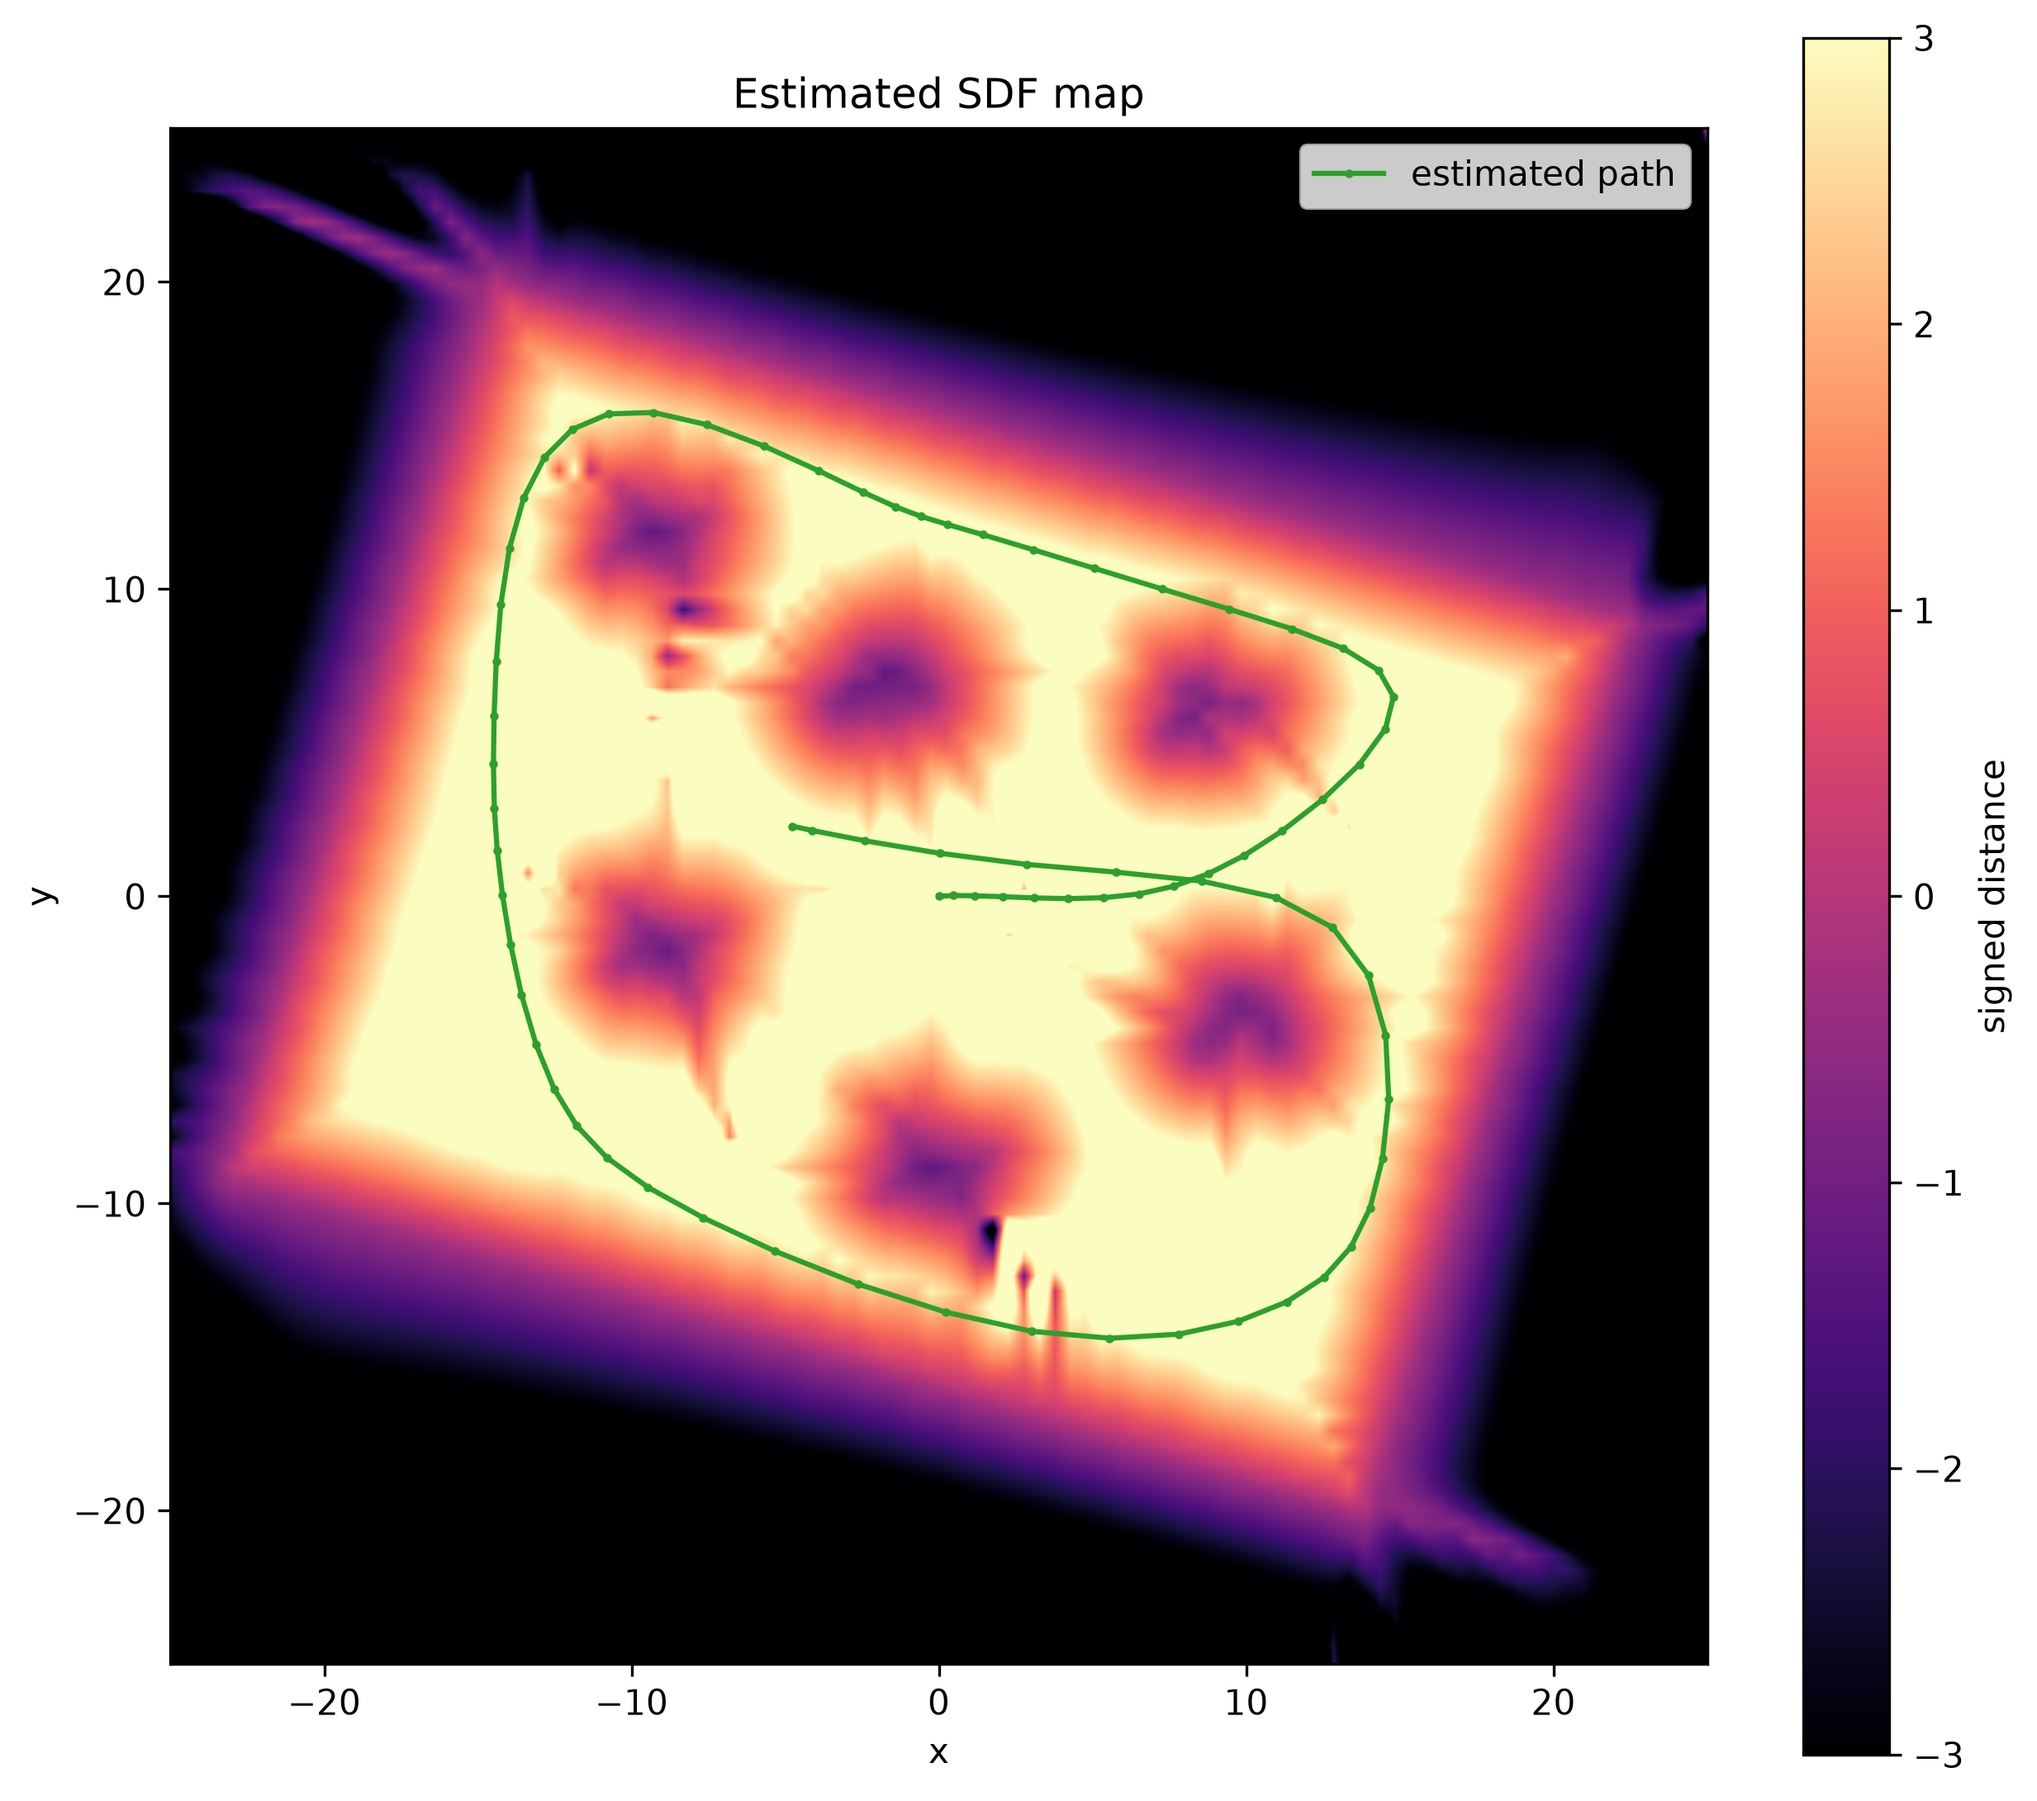
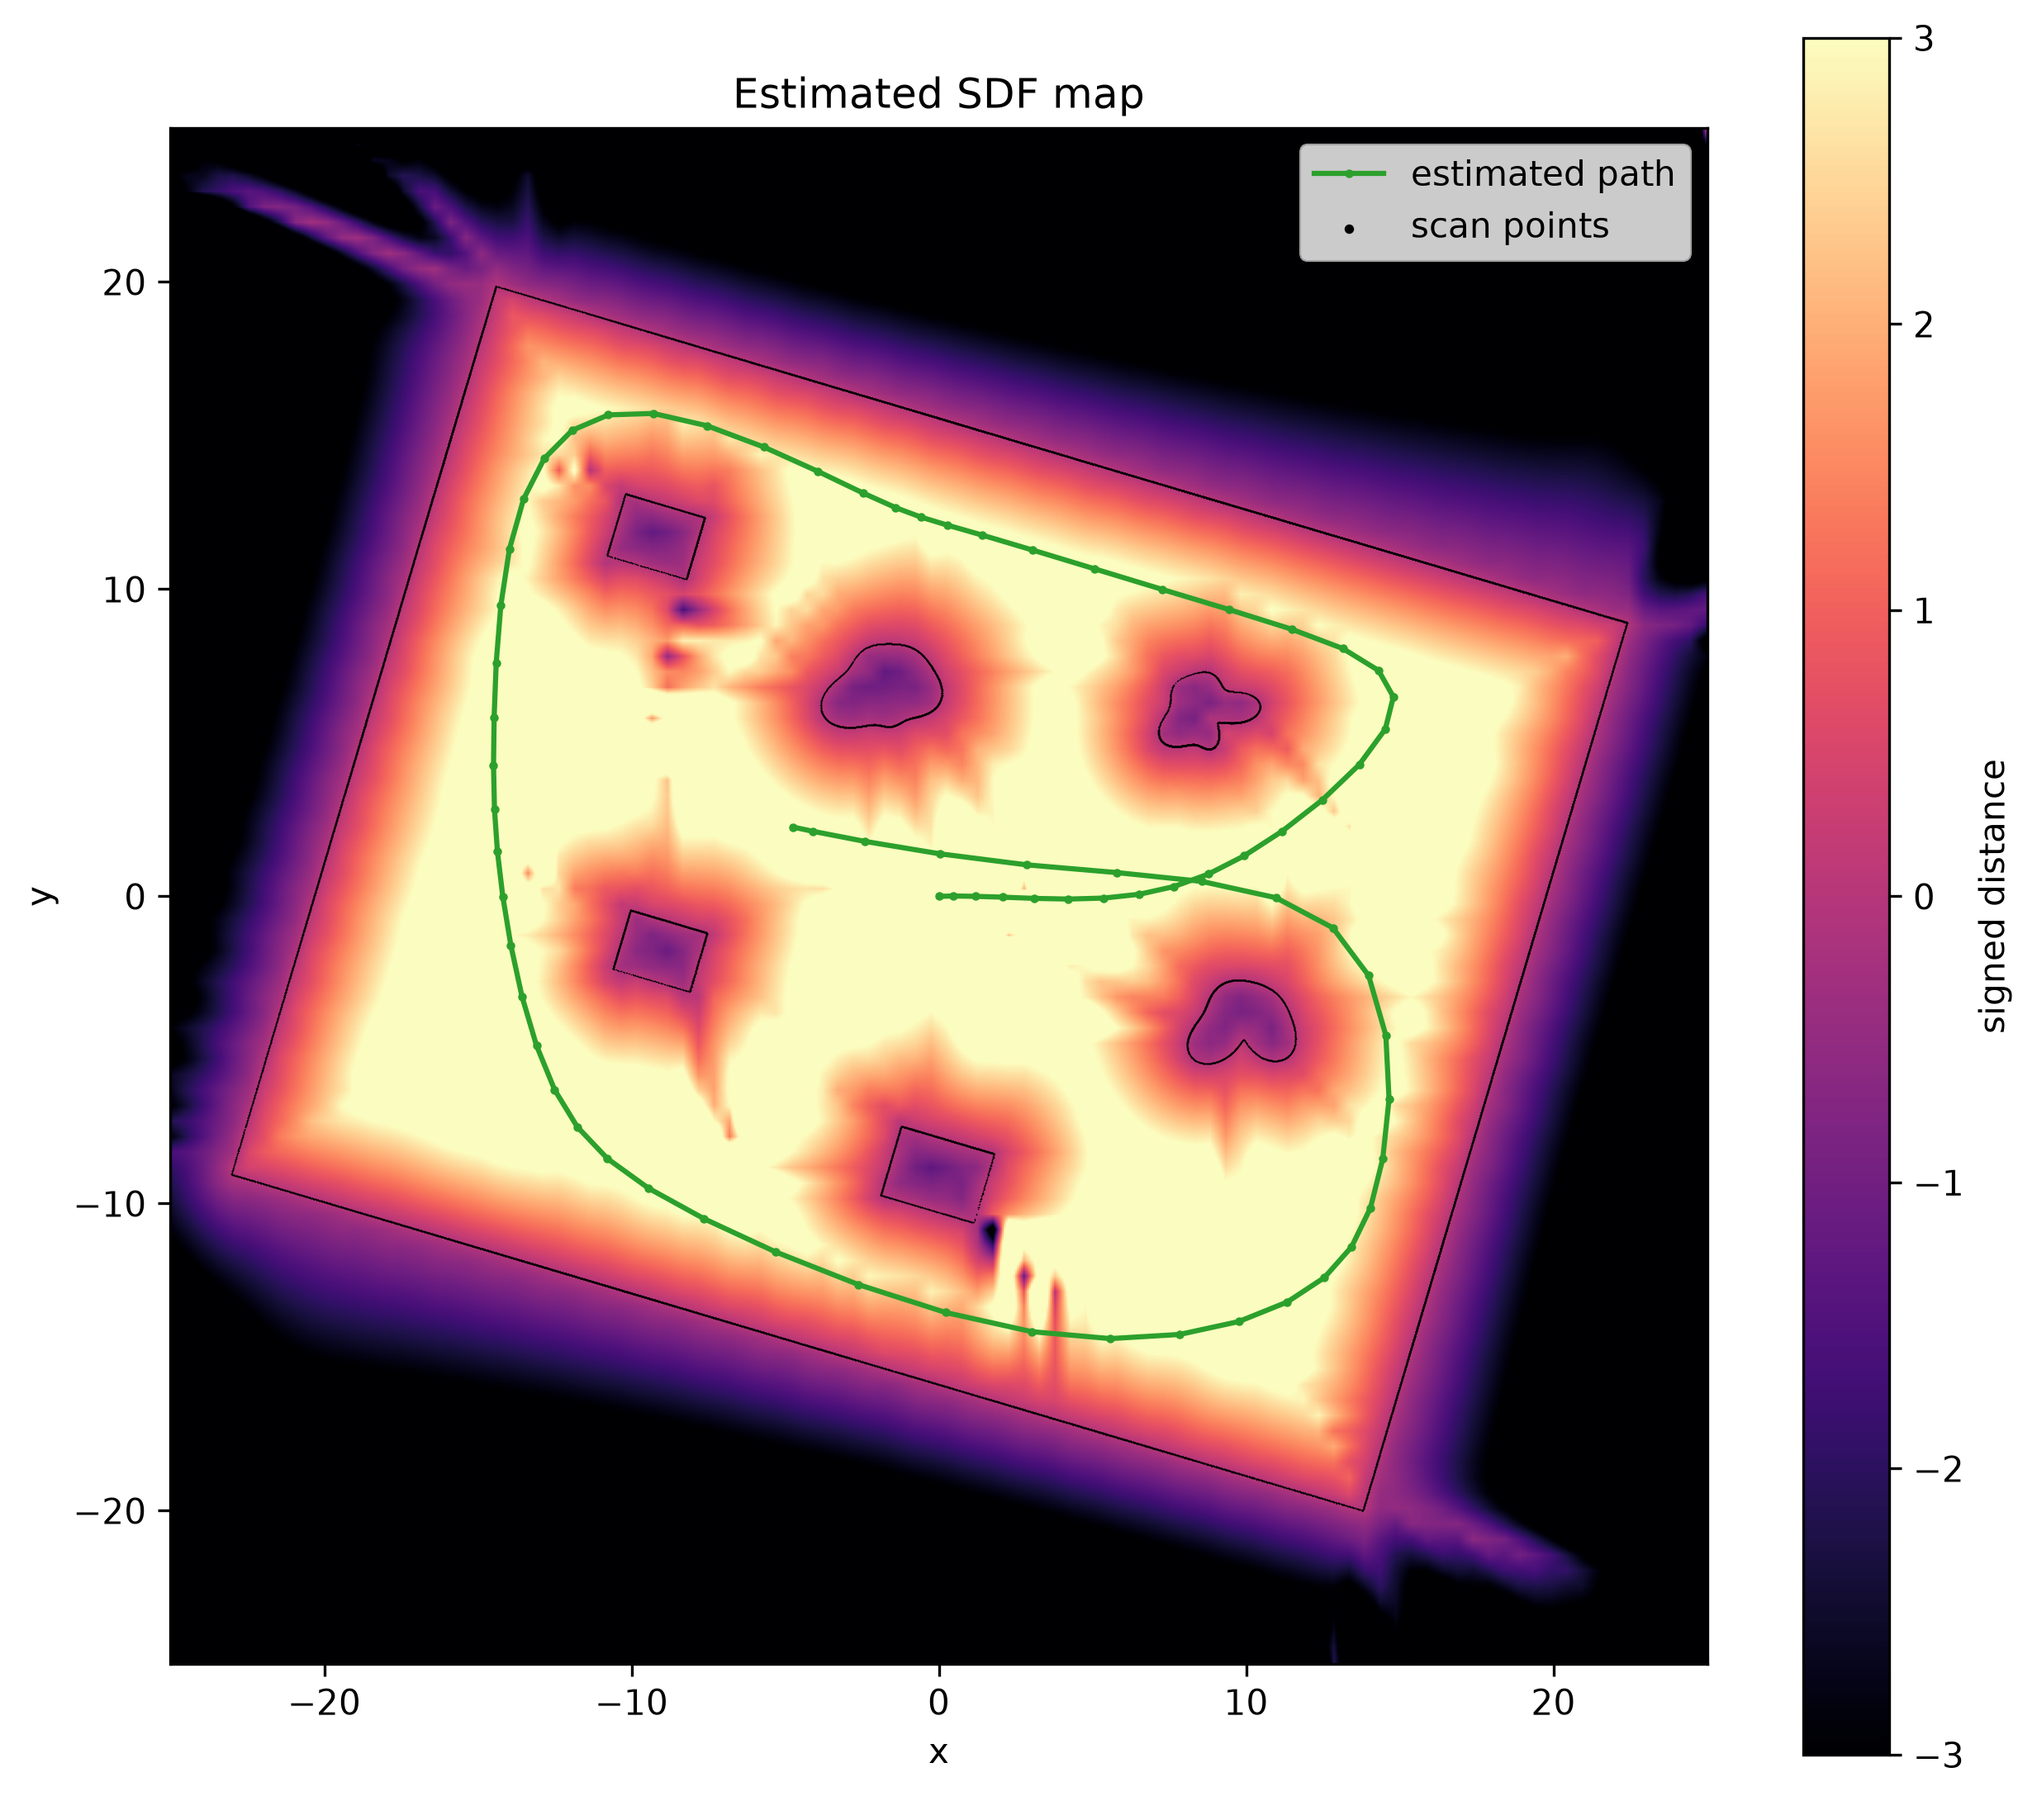
Enable smooth_gradient by default
On the simulated dataset with ground truth it halves the mean
translation error (0.039 to 0.022) and matches dissertation table 4.2.
Huber and trust-region were re-tested on top of the DEC-0007 recipe and
degrade it, so the recipe stays as recorded.

Changed region(s): [[0.6245, 0.0935, 0.8431, 0.1559]]

diff --git a/src/problem/problem.hpp b/src/problem/problem.hpp
@@ -53,8 +53,10 @@ struct ProblemOptions {
   double huber_delta{0.0};
   /// When true, the pose Jacobian of point residuals uses the
   /// central-difference SDF gradient interpolated at the point instead of the
-  /// exact bilinear-patch gradient. Continuous across cell borders.
-  bool smooth_gradient{false};
+  /// exact bilinear-patch gradient. Continuous across cell borders; halves
+  /// the ground-truth trajectory error on the simulated dataset and is part
+  /// of the Intel recipe. see DEC-0007 smooth-gradient-registration
+  bool smooth_gradient{true};
   /// When true, only grid nodes referenced by point residuals (dilated by
   /// active_margin cells) enter the state vector; the rest stay constant.
   /// see DEC-0002 active-region-map

diff --git a/docs/product/decisions/0007-smooth-gradient-registration.md b/docs/product/decisions/0007-smooth-gradient-registration.md
@@ -34,6 +34,14 @@ Benchmark (median revisit-consistency, `tools/viz/revisit_consistency.py`): lap-
 
 ## Consequences
 
+- `smooth_gradient` is on by default: on the simulated dataset with ground
+  truth it halves the mean translation error (0.039 to 0.022) and matches the
+  dissertation's table 4.2. The exact bilinear-patch gradient stays available
+  as `smooth_gradient: false`.
+- Huber loss and the trust-region mode also fail ON TOP of the recipe
+  (lap-1: 0.69 / 0.56 vs 0.013), so the negative results hold in both
+  directions for those two.
+
 - Full-Intel runs optimize the dense state: ~42 min at 100x100 instead of ~16 min with the active region.
 - The pose Jacobian is deliberately inconsistent with the residual's true derivative; finite-difference Jacobian tests cover the default (exact) mode only.
 - DEC-0003's `weighted` normals stay the default for the simulated datasets; the Intel configs override to `pca`.

diff --git a/README.md b/README.md
@@ -86,10 +86,13 @@ uv run make_video.py ../../out/intel_fixed_domain --dataset ../../data/intel
 
 | Metric | This repo | Dissertation (table 4.2) |
 | --- | --- | --- |
-| Mean translation error | 0.039 | 0.022 |
-| Mean rotation error (rad) | 0.00095 | 0.00037 |
-| Mean rel. translation error | 0.0041 | 0.0031 |
-| Mean rel. rotation error (rad) | 0.00016 | 0.00014 |
+| Mean translation error | 0.022 | 0.022 |
+| Mean rotation error (rad) | 0.00033 | 0.00037 |
+| Mean rel. translation error | 0.0034 | 0.0031 |
+| Mean rel. rotation error (rad) | 0.00015 | 0.00014 |
+
+The smooth-gradient pose Jacobian (DEC-0007, on by default) closes the
+earlier gap to the dissertation's numbers.
 
 On the full 910-scan Intel dataset, `configs/intel_smooth_gradient.yaml`
 (10 LM iterations per new scan, smooth-gradient recipe, DEC-0007) stays
